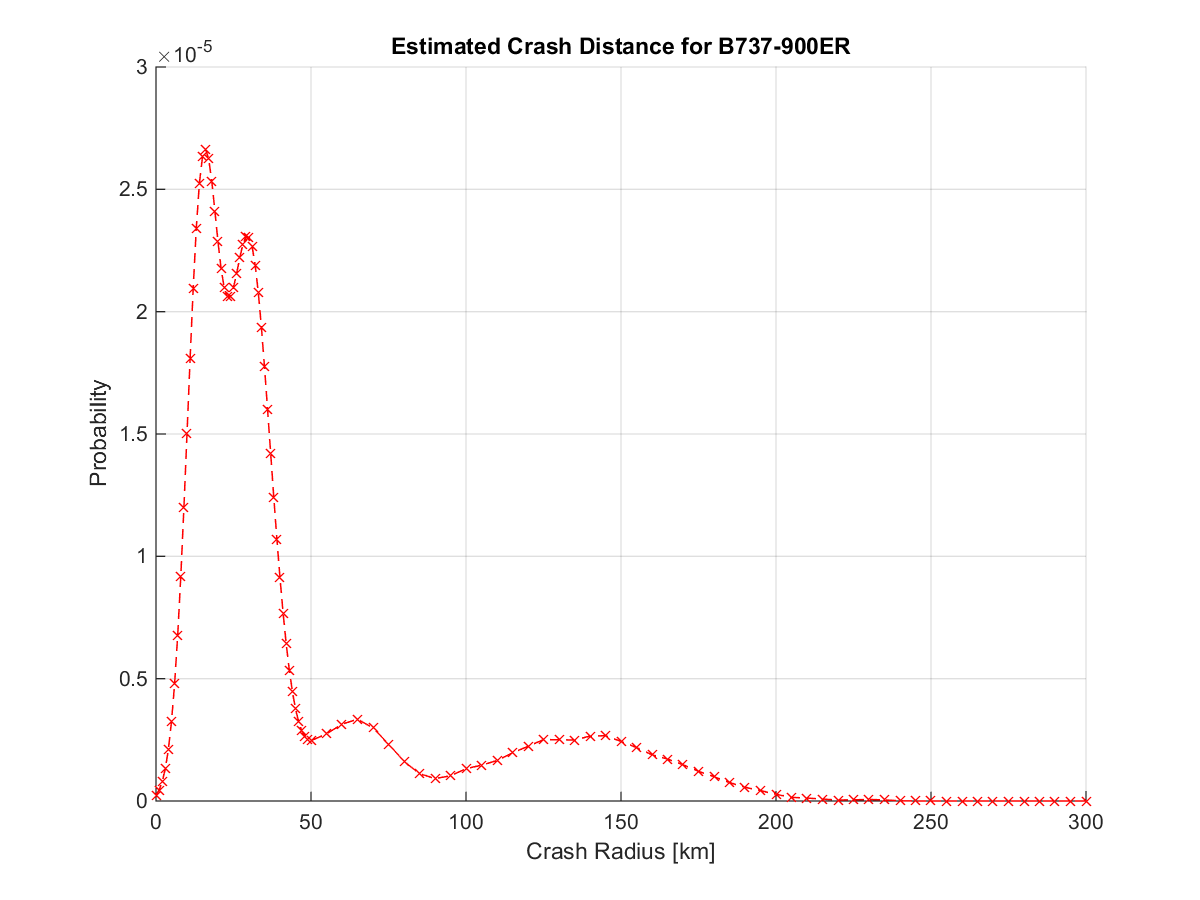
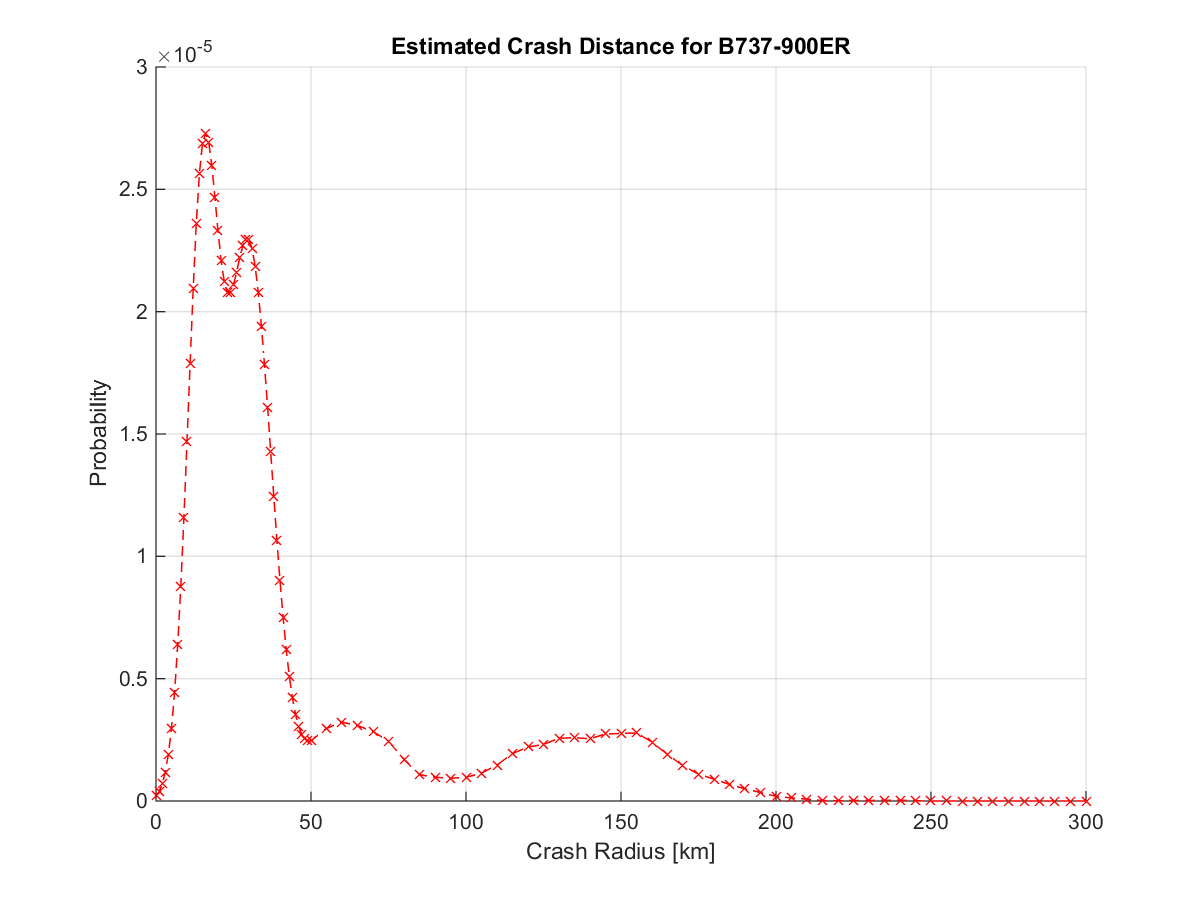
new commit

diff --git a/simulation/main.m b/simulation/main.m
@@ -31,7 +31,7 @@ rint = AC.Vc*interval; %m
 % continuous probability (rtil) riemann sum resolution
 Nrtil = 50;
 % grid resolution
-GRIDcase = 1;
+GRIDcase = 2;
 if GRIDcase == 1
     N1grid = 100;
     N2grid = 60;
@@ -45,6 +45,8 @@ Nquad = 2;
 bdry = [-150 350 -150 150]*1e3; %m
 % reverse probability
 s = .05; q = 1/pi-2*s;
+% average debris drift speed
+dV = 10; %m/s
 
 %% incident to crash range pdf
 
@@ -127,28 +129,44 @@ PP = P;
 % update interval that is appropriate
 % i.e. allow only single cell diffusion given grid resolution
 if GRIDcase == 1
-    dt = .5*60*60; %s
-    Nsim = Tsim/dt; %steps
-else
     dt = .1*60*60; %s
     Nsim = Tsim/dt; %steps
+else
+    dt = .6*60*60; %s
+    Nsim = Tsim/dt; %steps
 end
-% average debris drift speed
-dV = 10; %m/s
-% escape/out of range probability
-Pescape = 0;
+Pmove = driftP(S,dt,dV);
 
+
+tVec = (0:dt:Tsim)/3600; %hr
+
+% Probability of escape at t
+Qt = zeros(Nsim+1,1);
+% Probability of escape at t from t-1
+qt = zeros(Nsim,1);
 % propogation loop
-for tstep = 1:Nsim
-    [PP,temp] = driftTransition2(S,dt,dV,PP);
-    Pescape = Pescape+temp;
+for t = 1:Nsim
+    [PP,qt(t)] = next(S,PP,Pmove);
+    Qt(t+1) = Qt(t) + qt(t)*(1-Qt(t));
 end
+
+% for t = 1:Nsim
+%     [PP,qt(t)] = driftTransition2(S,dt,dV,PP);
+%     Qt(t+1) = Qt(t) + qt(t)*(1-Qt(t));
+% end
+%% Location density is no search initiates
 figure(); hold all; grid on;
 plottwoform(Splot,PP,3);
 xlabel('Tangent Direction [km]'); ylabel('Lateral Direction [km]');
 title(num2str(Tsim/3600, 'Probability of Aircraft Debris Location at t=%d hr'));
 saveas(gcf,[acname '_NoSearchDistribution.png']);
-
+%% Graph of escape probability over time
+figure(); hold all; grid on;
+plot(tVec,[0;qt],'x--');plot(tVec,Qt,'x--')
+legend('q_t','Q_t');
+xlabel('Time [hr]'); ylabel('Probability');
+title('Probability of Aircraft Debris Escaped Search Domain');
+saveas(gcf,[acname '_NoSearchEscape.png']);
 %% Search Agent Data
 
 % given 99% detection range find sigma
@@ -182,11 +200,11 @@ Ns = 1000;
 mvncdf(x1r,x2r,xs,sig);
 %% Distributed Search Plan (edge first)
 
-Pescape = 0;
+Qt = 0;
 % propogation loop
-for tstep = 1:Nsim
+for t = 1:Nsim
     [PP,temp] = driftTransition2(S,dt,dV,PP);
-    Pescape = Pescape+temp;
+    Qt = Qt+temp;
     update 
 end
 

diff --git a/simulation/next.m b/simulation/next.m
@@ -1,0 +1,24 @@
+function [P,q] = next(S,P,Pmove)
+
+Nmove = numel(Pmove)-1;
+Ppadded = zeros(S.dim+Nmove-1);
+Ppadded(Nmove:(end-Nmove+1),Nmove:(end-Nmove+1)) = P;
+
+for i = 1:size(P,1)
+    for j = 1:size(P,2)
+        Pcell = P(i,j);
+%         for prop = 1:Nmove
+            Ppadded(i+[0 2],j+(0:2)) = Ppadded(i+[0 2],j+(0:2)) + Pmove(2)*Pcell;
+            Ppadded(i+1,j+[0 2]) = Ppadded(i+1,j+[0 2]) + Pmove(2)*Pcell;
+            Ppadded(i+1,j+1) = Ppadded(i+1,j+1) + Pmove(1)*Pcell;
+%         end
+    end
+end
+
+P = Ppadded(Nmove:(end-Nmove+1),Nmove:(end-Nmove+1));
+% renormalization
+P = P./sum(P(:));
+q = sum(sum(Ppadded([1:Nmove-1 (end-Nmove+1):end],:))) + ...
+    sum(sum(Ppadded(:,[1:Nmove-1 (end-Nmove+1):end])));
+
+end

diff --git a/simulation/driftP.m b/simulation/driftP.m
@@ -1,0 +1,27 @@
+function [Pmove,Pdiff] = driftP(S,dt,dV)
+
+%% assumes zero knowledge of local drift direction and speed.
+
+% average debris drift speed
+ds = dV*dt; %m
+% standard deviation (GUESS!)
+sigma_s = .5*ds; %m
+% grid size
+dx1 = mean(diff(unique(S.xnodes))); %m
+dx2 = mean(diff(unique(S.ynodes))); %m
+% nextcell distance (approximate by diam)
+dd = sqrt(dx1^2+dx2^2)/2;
+
+% range of motion in cells (1sigma)
+Nmove = ceil((ds+sigma_s)/dd);
+Pmove = zeros(Nmove,1);
+Pmove(1) = normcdf(dd,ds,sigma_s);
+for i=2:Nmove-1
+    Pmove(i) = normcdf(dd*i,ds,sigma_s) - Pmove(i-1);
+end
+Pmove(end) = 1 - sum(Pmove(1:end-1));
+Pdiff = 8*(1:Nmove)-8;
+Pdiff(1) = 1;
+Pmove = Pmove(:)./Pdiff(:);
+
+end

diff --git a/simulation/driftTransition2.m b/simulation/driftTransition2.m
@@ -1,6 +1,6 @@
-function [P,Pescape] = driftTransition2(S,dt,dV,P)
+function [P,Pescape,Pstay] = driftTransition2(S,dt,dV,P)
 
-%% assumes zero knowledge of local drift direction and speed.
+% assumes zero knowledge of local drift direction and speed.
 
 % average debris drift speed
 ds = dV*dt; %m
@@ -37,9 +37,11 @@ for i = 1:size(P,1)
     end
 end
 
-P = Ppadded(2:(end-1),2:(end-1));
+P = Ppadded(Nmove:(end-Nmove+1),Nmove:(end-Nmove+1));
 % renormalization
 P = P./sum(P(:));
-Pescape = sum(sum(Ppadded([1 end],:))) + sum(sum(Ppadded(:,[1 end])));
+Pescape = sum(sum(Ppadded([1:Nmove-1 (end-Nmove+1):end],:))) + ...
+    sum(sum(Ppadded(:,[1:Nmove-1 (end-Nmove+1):end])));
 
+Pstay = Ppadded(
 end
